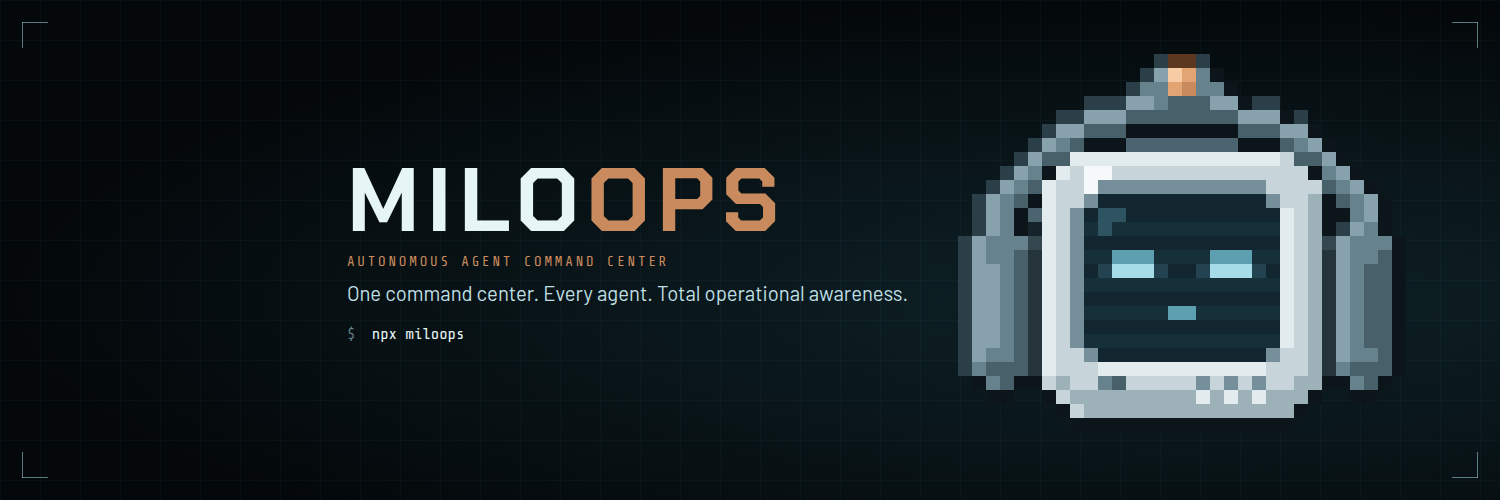
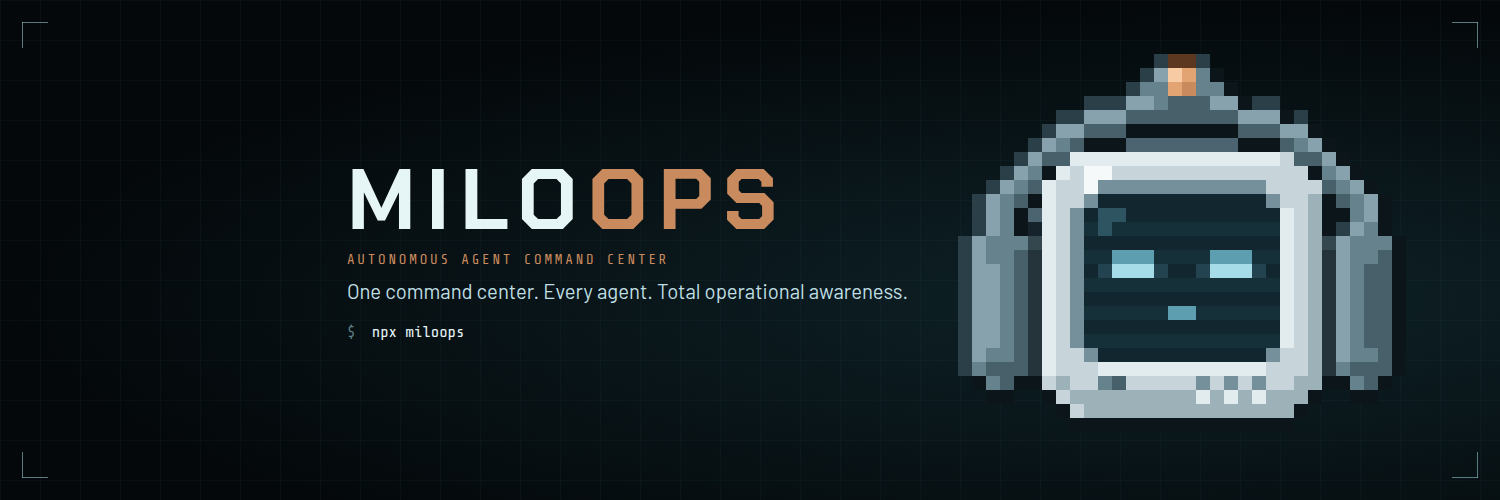
MILO pixel lockup: mini sprite beside a Chakra Petch 700 wordmark
Command center header, onboarding and About use a new MiloLogo (trimmed
mini sprite at an integer scale) with the wordmark at 700 / 0.12em, centred
on the cap height. The brand generator gains a lockup view and
brand/wordmark-lockup.png, banners pick up the new tracking, and the kit is
re-rendered. capture.mjs now reads WORDMARK from preview/content.ts.

diff --git a/packages/milo-avatar/preview/views/Lockup.tsx b/packages/milo-avatar/preview/views/Lockup.tsx
@@ -1,0 +1,21 @@
+import { STYLES, Sprite, composeFrame } from '../../src/milo';
+import { Wordmark } from './Wordmark';
+
+/** The mini sprite minus its empty top and bottom rows, so it centres on the wordmark's cap height. */
+const ROWS = composeFrame(STYLES.crt.mini, { eyes: 'open', mouth: 'rest' }).filter((row) => /[^.]/.test(row));
+
+/** Logo lockup: mini MILO beside the wordmark. The sprite is twice the cap height, at an integer pixel scale. */
+export function Lockup({ w, h, wordmark }: { w: number; h: number; wordmark: string }) {
+  const scale = Math.round(h / 30);
+  const font = scale * 10;
+  return (
+    <div
+      className="lockup"
+      data-capture="lockup"
+      style={{ width: w, height: h, gap: font / 2, ['--u' as string]: `${font / 110}px` }}
+    >
+      <Sprite rows={ROWS} palette={STYLES.crt.palette} scale={scale} />
+      <Wordmark text={wordmark} />
+    </div>
+  );
+}

diff --git a/apps/command-center/src/features/settings/Onboarding.tsx b/apps/command-center/src/features/settings/Onboarding.tsx
@@ -1,6 +1,6 @@
 import { BRAND } from '@miloops-hq/core';
 import { useState } from 'react';
-import { Panel, MiloMark, Wordmark, Label, Choice, Button } from '../../components/ui';
+import { Panel, MiloLogo, MiloMark, Wordmark, Label, Choice, Button } from '../../components/ui';
 import type { Prefs, TrackerChoice } from '../../lib';
 import { useTrackerSettings, trackerApi, switchTracker } from '../trackers';
 import { SettingsSection } from './SettingsSection';
@@ -37,7 +37,7 @@ export function Onboarding(props: { prefs: Prefs; update: (p: Partial<Prefs>) =>
     <div className="scrim">
       <Panel as="div" className="dialog onboarding">
         <div className="onb-brand">
-          <MiloMark size={40} />
+          <MiloLogo scale={3} />
           <Wordmark as="div" className="onb-title" />
         </div>
         <div className="onb-cat mono-label">{BRAND.category}</div>

diff --git a/packages/milo-avatar/preview/App.tsx b/packages/milo-avatar/preview/App.tsx
@@ -4,6 +4,7 @@ import { Banner } from './views/Banner';
 import { BrandSquare } from './views/BrandSquare';
 import { Demo } from './views/Demo';
 import { Favicon } from './views/Favicon';
+import { Lockup } from './views/Lockup';
 import { Options } from './views/Options';
 import { Playground } from './views/Playground';
 import { States } from './views/States';
@@ -17,6 +18,8 @@ export function App() {
   if (view === 'demo') return <Demo variant={variant} />;
   if (view === 'square') return <BrandSquare n={Number(q.get('n') || 512)} />;
   if (view === 'favicon') return <Favicon px={Number(q.get('px') || 64)} />;
+  if (view === 'lockup')
+    return <Lockup w={Number(q.get('w') || 960)} h={Number(q.get('h') || 240)} wordmark={q.get('wordmark') || WORDMARK} />;
   if (view === 'banner')
     return (
       <Banner

diff --git a/apps/command-center/src/features/header/Header.tsx b/apps/command-center/src/features/header/Header.tsx
@@ -4,9 +4,8 @@ import {
   type ActivityState,
   type TrackerHealth,
   missionProgress,
-  BRAND,
 } from '@miloops-hq/core';
-import { Panel, MiloMark, Wordmark, Label, Readout, Button } from '../../components/ui';
+import { Panel, MiloLogo, MiloMark, Wordmark, Label, Readout, Button } from '../../components/ui';
 import { useNow } from '../../hooks';
 import { hms } from '../../lib';
 import { MissionSwitcher } from './MissionSwitcher';
@@ -41,7 +40,7 @@ export function Header(props: {
   return (
     <Panel as="header" className="header">
       <div className="h-brand">
-        <MiloMark size={28} className="logo" title={BRAND.name} />
+        <MiloLogo className="logo" />
         <Wordmark className="wordmark" />
       </div>
       <div className="h-title">

diff --git a/apps/command-center/src/features/settings/Changelog.tsx b/apps/command-center/src/features/settings/Changelog.tsx
@@ -1,5 +1,5 @@
 import { BRAND } from '@miloops-hq/core';
-import { Meta } from '../../components/ui';
+import { Meta, Wordmark } from '../../components/ui';
 import { NEXT, RELEASES } from './changelog';
 import { SettingsSection } from './SettingsSection';
 
@@ -7,7 +7,7 @@ export function Changelog() {
   return (
     <div className="changelog">
       <div className="about">
-        <span className="about-name">{BRAND.name}</span>
+        <Wordmark className="about-name" />
         <span className="mono-label">{BRAND.category}</span>
         <p className="onb-tagline">{BRAND.tagline}</p>
         <Meta as="p" parts={[BRAND.assistant.name, BRAND.assistant.expansion]} />

diff --git a/apps/command-center/src/components/ui/MiloLogo.tsx b/apps/command-center/src/components/ui/MiloLogo.tsx
@@ -1,0 +1,11 @@
+import { RECOMMENDED_STYLE, STYLES, Sprite, composeFrame } from '@miloops-hq/milo-avatar';
+
+const style = STYLES[RECOMMENDED_STYLE];
+
+/** The mini sprite without its empty top and bottom rows, so it centres on the wordmark's cap height. */
+const ROWS = composeFrame(style.mini, { eyes: 'open', mouth: 'rest' }).filter((row) => /[^.]/.test(row));
+
+/** Logo glyph for the MILO/OPS lockup. Keep `scale` an integer so every pixel stays crisp. */
+export function MiloLogo({ scale = 2, className }: { scale?: number; className?: string }) {
+  return <Sprite rows={ROWS} palette={style.palette} scale={scale} className={className} />;
+}

diff --git a/packages/milo-avatar/preview/preview.css b/packages/milo-avatar/preview/preview.css
@@ -340,10 +340,20 @@ body {
 .wordmark {
   font-family: var(--display);
   font-weight: 700;
-  font-size: calc(var(--u) * 116);
+  font-size: calc(var(--u) * 110);
   line-height: 0.95;
-  letter-spacing: 0.08em;
+  letter-spacing: 0.12em;
+  margin-right: -0.12em;
   color: var(--text-hi);
+}
+.lockup {
+  display: flex;
+  align-items: center;
+  justify-content: center;
+  background: radial-gradient(ellipse at 50% 50%, #0e2228 0%, #04080a 75%);
+}
+.lockup .wordmark {
+  line-height: 1;
 }
 .wordmark-ops {
   color: #c98b5e;

diff --git a/apps/command-center/src/styles/settings.css b/apps/command-center/src/styles/settings.css
@@ -312,9 +312,11 @@
 }
 .onb-title {
   font-family: var(--display);
-  font-weight: 300;
+  font-weight: 700;
   font-size: var(--fs-display);
+  line-height: 1;
   letter-spacing: var(--ls-brand);
+  margin-right: calc(-1 * var(--ls-brand));
   text-transform: uppercase;
   color: var(--text-hi);
 }
@@ -347,7 +349,7 @@
 }
 .about-name {
   font-family: var(--display);
-  font-weight: 300;
+  font-weight: 700;
   font-size: var(--fs-heading);
   letter-spacing: var(--ls-brand);
   color: var(--text-hi);

diff --git a/apps/command-center/src/styles/design-system.css b/apps/command-center/src/styles/design-system.css
@@ -18,7 +18,7 @@
   --ls-text: 0.01em; /* Chakra Petch running text (agent voice) */
   --ls-data: 0.06em; /* mono data: keys, timers, ids, caps headings in Chakra Petch */
   --ls-label: 0.1em; /* mono caps labels, buttons, tabs */
-  --ls-brand: 0.32em; /* wordmark only */
+  --ls-brand: 0.12em; /* wordmark only, set in Chakra Petch 700 */
 
   /* Spacing scale (px). --gutter is the inner padding of every zone. */
   --sp-2: 2px;

diff --git a/apps/command-center/src/fonts.ts b/apps/command-center/src/fonts.ts
@@ -3,6 +3,7 @@ import '@fontsource/chakra-petch/300.css';
 import '@fontsource/chakra-petch/400.css';
 import '@fontsource/chakra-petch/500.css';
 import '@fontsource/chakra-petch/600.css';
+import '@fontsource/chakra-petch/700.css';
 import '@fontsource/barlow/400.css';
 import '@fontsource/barlow/500.css';
 import '@fontsource/barlow/600.css';

diff --git a/apps/command-center/src/components/ui/index.ts b/apps/command-center/src/components/ui/index.ts
@@ -9,6 +9,7 @@ export { InputRow } from './InputRow';
 export { Label } from './Label';
 export { MarkSheet } from './MarkSheet';
 export { Meta } from './Meta';
+export { MiloLogo } from './MiloLogo';
 export { type MarkState, MiloMark } from './MiloMark';
 export { Panel } from './Panel';
 export { Pill } from './Pill';

diff --git a/apps/command-center/src/styles/header.css b/apps/command-center/src/styles/header.css
@@ -17,9 +17,11 @@
 }
 .wordmark {
   font-family: var(--display);
-  font-weight: 300;
+  font-weight: 700;
   font-size: var(--fs-heading);
+  line-height: 1;
   letter-spacing: var(--ls-brand);
+  margin-right: calc(-1 * var(--ls-brand));
   text-transform: uppercase;
   color: var(--text-hi);
 }
